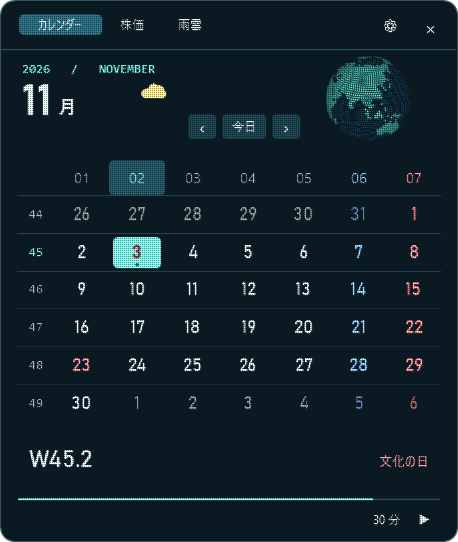
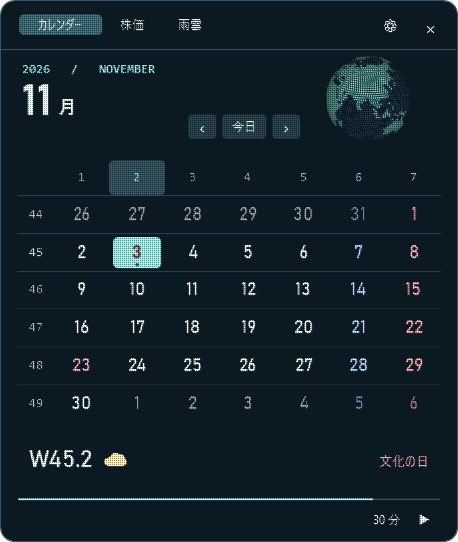
Remove the particle ring and keep unchanged calendar content steady

diff --git a/src/Calendar.xaml b/src/Calendar.xaml
@@ -47,8 +47,6 @@
             <TextBlock Text="月" FontSize="19" FontWeight="SemiBold" Margin="6,9,0,0" VerticalAlignment="Center"/>
           </StackPanel>
         </StackPanel>
-        <TextBlock Name="TodayWeather" Text="" FontSize="29" FontFamily="Segoe UI Symbol" Foreground="#F4DD8E"
-                   HorizontalAlignment="Left" VerticalAlignment="Top" Margin="140,23,0,0"/>
         <StackPanel Orientation="Horizontal" HorizontalAlignment="Right" VerticalAlignment="Bottom" Margin="0,0,156,10">
           <Button Name="Previous" Content="‹" Width="30" Height="27" FontFamily="Segoe UI" FontSize="18" Padding="0" Background="#1C3E49" ToolTip="前の月" AutomationProperties.Name="前の月"/>
           <Button Name="Today" Content="今日" Margin="4,0" Background="#1C3E49" Padding="10,2"/>
@@ -58,7 +56,11 @@
       <Grid Name="Dates" Grid.Row="1" Margin="16,10,16,8"/>
       <Border Grid.Row="2" Background="#152E39" CornerRadius="7" Margin="16,0,16,7" Padding="12,0">
         <Grid>
-          <TextBlock Name="SelectedDate" FontSize="24" FontFamily="Bahnschrift" VerticalAlignment="Center"/>
+          <StackPanel Orientation="Horizontal" VerticalAlignment="Center">
+            <TextBlock Name="SelectedDate" FontSize="24" FontFamily="Bahnschrift" VerticalAlignment="Center"/>
+            <TextBlock Name="TodayWeather" Text="" FontSize="26" FontFamily="Segoe UI Symbol" Foreground="#F4DD8E"
+                       VerticalAlignment="Center" Margin="12,0,0,0"/>
+          </StackPanel>
           <TextBlock Name="HolidayName" FontSize="13" Foreground="#FF9699" HorizontalAlignment="Right" VerticalAlignment="Center"/>
         </Grid>
       </Border>

diff --git a/src/AssemblyEffect.cs b/src/AssemblyEffect.cs
@@ -82,43 +82,71 @@ namespace OrbitCalendar
 
         public void StartArea(Rect area, bool restart = false) { Start(!restart, area); }
 
-        void Start(bool fromPrevious, Rect area)
+        public void StartCalendarChange(Rect[] regions) { Start(true, new Rect(face.RenderSize), regions); }
+
+        static bool InRegions(Point point, Rect area, Rect[] regions)
+        {
+            if (!area.Contains(point)) return false;
+            if (regions == null) return true;
+            foreach (var region in regions) if (region.Contains(point)) return true;
+            return false;
+        }
+
+        void Start(bool fromPrevious, Rect area, Rect[] regions = null)
         {
             motionStyle = Preferences.Motion == 0 ? (++sequence % 5) + 1 : Preferences.Motion;
             dirty = false;
-            var old = grains;
-            if (old != null && area.Width < face.RenderSize.Width)
-            {
-                var local = new List<Grain>();
-                foreach (var grain in old) if (area.Contains(grain.Target)) local.Add(grain);
-                old = local.ToArray();
-            }
+            var previous = grains;
+            var oldByPixel = new Dictionary<int, Grain>();
+            int width = (int)face.RenderSize.Width;
+            if (previous != null)
+                foreach (var grain in previous) oldByPixel[(int)grain.Target.Y * width + (int)grain.Target.X] = grain;
             Stop();
             face.UpdateLayout();
             grains = Sample();
             if (grains.Length == 0) return;
-            morph = fromPrevious && old != null && old.Length > 0;
+            var fixedPixels = new HashSet<int>();
+            int movingCount = 0;
             for (int i = 0; i < grains.Length; i++)
             {
-                // Roughly equal area per speck. Latitude bands on the inner shell
-                // and a few eccentric outer orbits make the rotation legible.
-                grains[i].Moving = area.Contains(grains[i].Target);
+                int key = (int)grains[i].Target.Y * width + (int)grains[i].Target.X;
+                Grain prior;
+                bool unchanged = fromPrevious && oldByPixel.TryGetValue(key, out prior) &&
+                    prior.Ink == grains[i].Ink && (prior.Current - prior.Target).LengthSquared < .25;
+                grains[i].Moving = InRegions(grains[i].Target, area, regions) && !unchanged;
+                if (grains[i].Moving) movingCount++;
+                else fixedPixels.Add(key);
+            }
+            var origins = new List<Grain>();
+            if (fromPrevious && previous != null)
+                foreach (var grain in previous)
+                {
+                    int key = (int)grain.Target.Y * width + (int)grain.Target.X;
+                    if (InRegions(grain.Target, area, regions) && !fixedPixels.Contains(key)) origins.Add(grain);
+                }
+            morph = fromPrevious && origins.Count > 0;
+            int movingIndex = 0;
+            for (int i = 0; i < grains.Length; i++)
+            {
+                if (!grains[i].Moving) { grains[i].Current = grains[i].Target; continue; }
                 double lat = Math.Asin(2 * random.NextDouble() - 1);
                 grains[i].Latitude = i % 4 == 0 ? lat : Math.Round(lat * 16) / 16;
                 grains[i].Longitude = random.NextDouble() * 2 * Math.PI;
                 grains[i].Radius = i % 7 == 0 ? 102 + random.NextDouble() * 51 : 82 + random.NextDouble() * 3;
                 grains[i].Speed = i % 7 == 0 ? -2 : 2.5;
                 grains[i].Lag = random.NextDouble() * .25;
-                if (morph) grains[i].Origin = old[(int)((long)i * old.Length / grains.Length)].Current;
+                if (morph) grains[i].Origin = origins[(int)((long)movingIndex * origins.Count / movingCount)].Current;
                 else
                 {
                     double angle = grains[i].Longitude;
-                    grains[i].Origin = new Point(grains[i].Target.X * .28 + 420 * .72 + Math.Cos(angle) * 65,
-                        grains[i].Target.Y * .28 + 535 * .72 + Math.Sin(angle) * 65);
+                    double spread = Math.Sqrt(-2 * Math.Log(Math.Max(1e-9, random.NextDouble()))) * 28;
+                    grains[i].Origin = new Point(grains[i].Target.X * .28 + 420 * .72 + Math.Cos(angle) * spread,
+                        grains[i].Target.Y * .28 + 535 * .72 + Math.Sin(angle) * spread);
                 }
                 if (area.Width < face.RenderSize.Width && !morph)
                     grains[i].Origin = new Point(area.Right - 8 - random.NextDouble() * Math.Min(65, area.Width),
                         area.Bottom - 5 - random.NextDouble() * Math.Min(25, area.Height));
+                movingIndex++;
             }
             int w = (int)face.RenderSize.Width, h = (int)face.RenderSize.Height;
             if (layer == null || layer.PixelWidth != w || layer.PixelHeight != h)
@@ -126,7 +154,7 @@ namespace OrbitCalendar
                 layer = new WriteableBitmap(w, h, 96, 96, PixelFormats.Pbgra32, null);
                 raster = new int[w * h];
             }
-            assembling = SystemParameters.ClientAreaAnimation;
+            assembling = SystemParameters.ClientAreaAnimation && movingCount > 0;
             seconds = 0;
             watch.Restart();
             Paint();
@@ -242,9 +270,17 @@ namespace OrbitCalendar
             InvalidateVisual();
         }
 
+        public bool CanRefreshArea(Rect area)
+        {
+            if (layer == null || !IsVisible || Closing || grains == null) return false;
+            if (assembling)
+                foreach (var grain in grains) if (grain.Moving && area.Contains(grain.Target)) return false;
+            return true;
+        }
+
         public void RefreshArea(Rect area)
         {
-            if (layer == null || !IsVisible || Busy || grains == null) return;
+            if (!CanRefreshArea(area)) return;
             face.UpdateLayout();
             var updated = new List<Grain>();
             foreach (var grain in grains) if (!area.Contains(grain.Target)) updated.Add(grain);

diff --git a/src/CalendarPanel.cs b/src/CalendarPanel.cs
@@ -42,10 +42,11 @@ namespace OrbitCalendar
             var earthTick = new System.Windows.Threading.DispatcherTimer { Interval = TimeSpan.FromMilliseconds(125) };
             earthTick.Tick += delegate
             {
-                if (!SystemParameters.ClientAreaAnimation || mode != 0 || effect.Busy) return;
+                var globeArea = new Rect(322, 53, 95, 94);
+                if (!SystemParameters.ClientAreaAnimation || mode != 0 || !effect.CanRefreshArea(globeArea)) return;
                 earth.Rotation = rotation.Elapsed.TotalSeconds * .14;
                 earth.InvalidateVisual();
-                effect.RefreshArea(new Rect(322, 53, 95, 94));
+                effect.RefreshArea(globeArea);
             };
             IsVisibleChanged += delegate
             {
@@ -116,7 +117,16 @@ namespace OrbitCalendar
             effect.Stop();
             selected = date;
             DrawDates();
-            if (changeMonth) { UpdateLayout(); effect.Start(true); }
+            if (changeMonth)
+            {
+                UpdateLayout();
+                var gauge = PanelBounds(Get<Border>("YearGauge"));
+                gauge.Width = 422;
+                effect.StartCalendarChange(new[] {
+                    PanelBounds(Get<TextBlock>("Year")), PanelBounds(Get<TextBlock>("Month")), PanelBounds(dates),
+                    PanelBounds(Get<TextBlock>("SelectedDate")), PanelBounds(Get<TextBlock>("HolidayName")),
+                    gauge });
+            }
             else effect.Refresh();
         }
 
@@ -145,7 +155,10 @@ namespace OrbitCalendar
                 var labels = new Border { CornerRadius = new CornerRadius(4) };
                 var dayColor = col == 6 ? blue : col == 7 ? red : muted;
                 if (col == IsoDay(selected)) labels.Background = Art.Ink("#23505E");
-                labels.Child = Label(col.ToString("00"), col == IsoDay(selected) ? aqua : dayColor, 14);
+                var number = Label(col.ToString(CultureInfo.InvariantCulture), col == IsoDay(selected) ? aqua : dayColor, 12);
+                number.FontFamily = new FontFamily("Consolas");
+                labels.Child = number;
+                AutomationProperties.SetName(labels, "曜日番号 " + col);
                 Place(labels, col, 0);
             }
             var first = new DateTime(selected.Year, selected.Month, 1);
